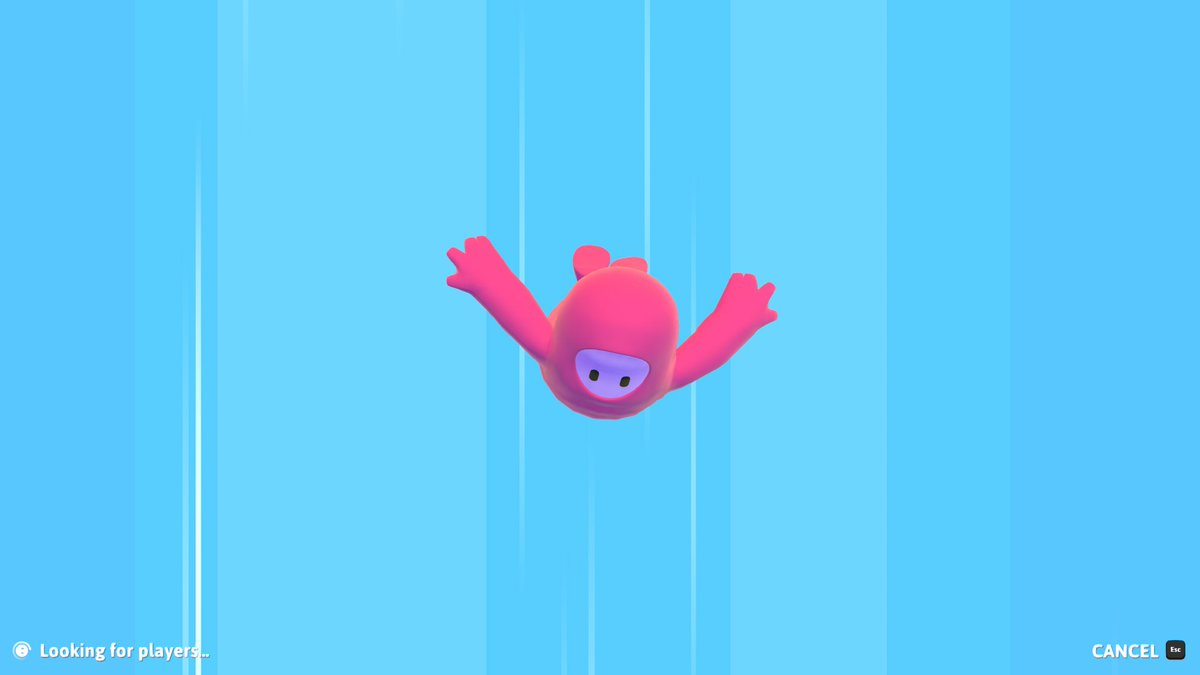
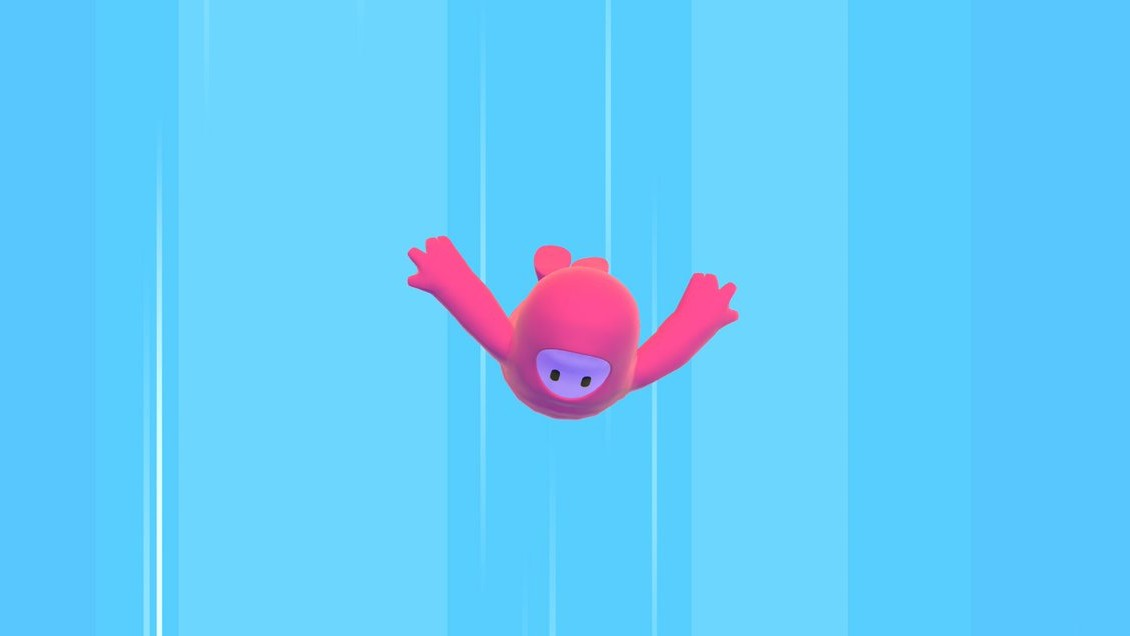
404

diff --git a/404.html b/404.html
@@ -2,7 +2,7 @@
 layout: fullscreen
 title: "404"
 image:
-    url: /assets/images/FallGuys.png
+    url: /assets/images/FallGuys.jpg
 ---
 
 <div id="post-info">
